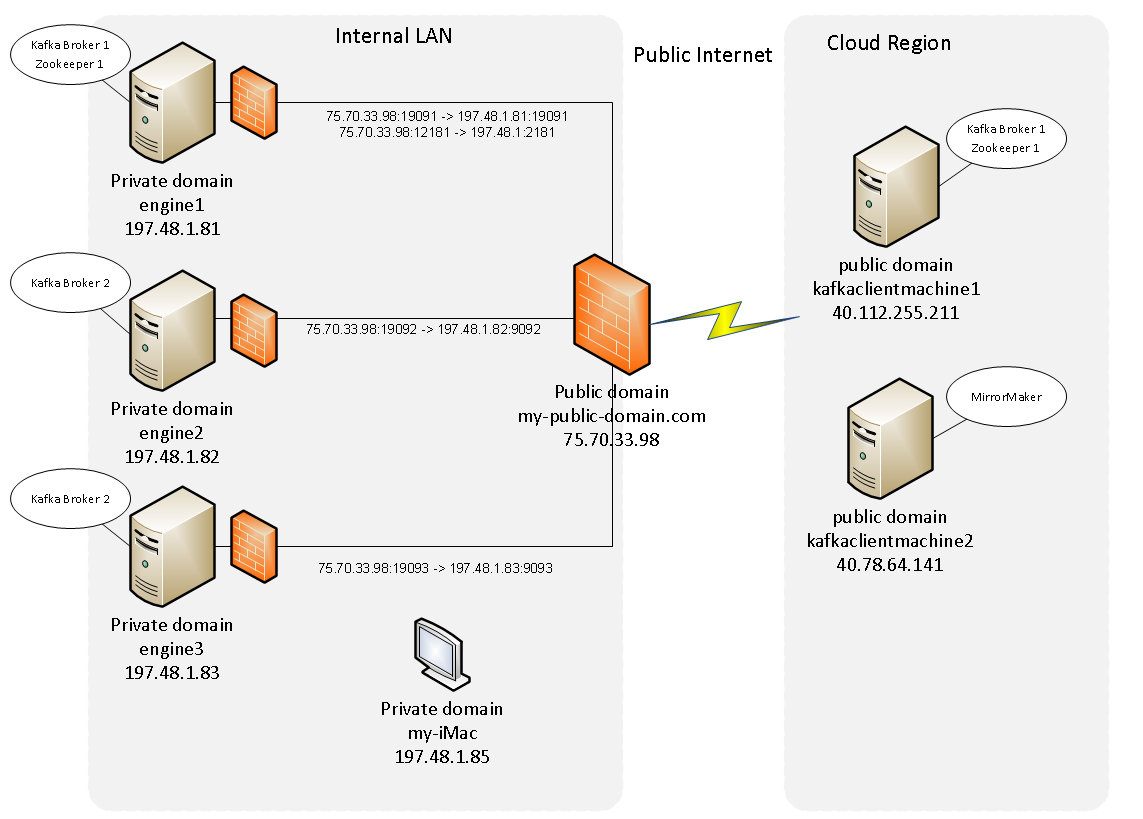
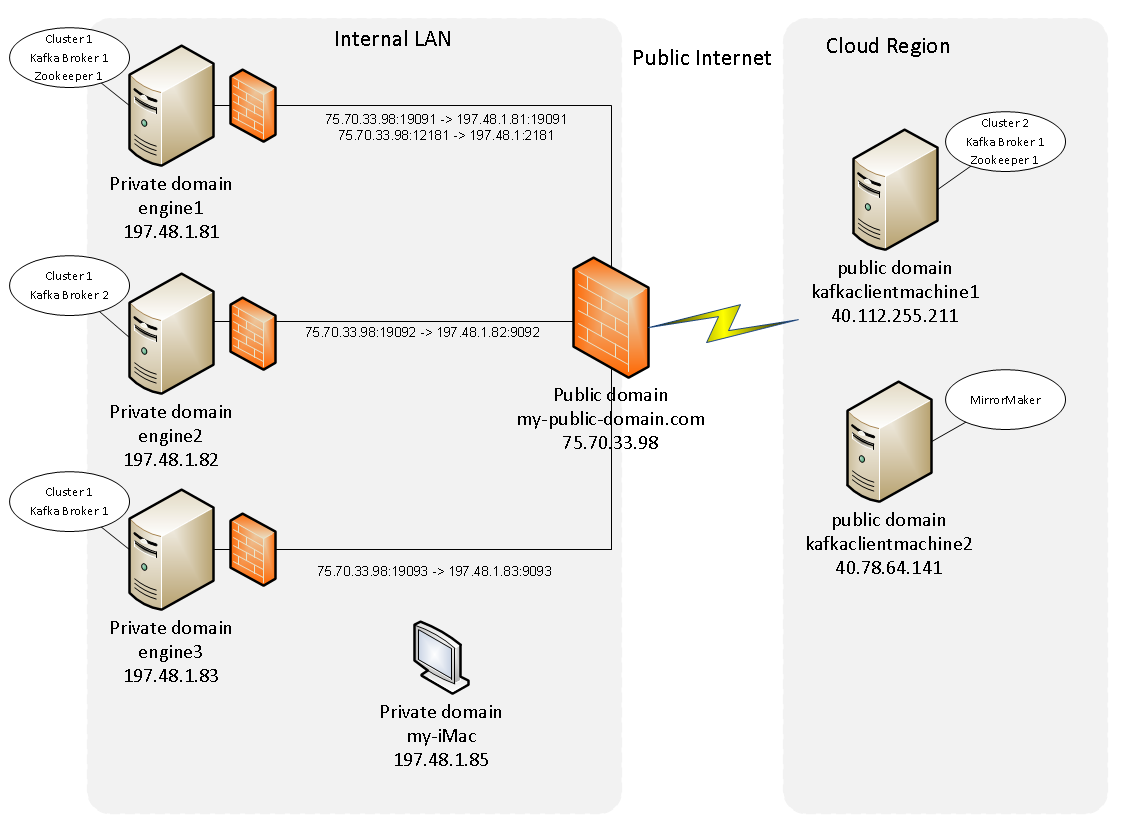
corrected diagram

diff --git a/README.md b/README.md
@@ -16,12 +16,12 @@ While this configuration is about setting up and configuration kafka on hardware
 
 Just a **warning** that you must be somewhat comfortable with Linux, Linux Networking, Kafka to complete this setup. It is not intended to be a guide for Windows and while it is all Linux, it is ready to use on RPM based Linux distros like Redhat and CentOS (not tested on Fedora). Modifications are required (and welcomed to be added to the project) if you intend on using other Linux distros like Ubuntu.  
 
-**Note:** Check Reference Section below for more information on Kafka, Kafka-MirroMaker, Vagrant, and Docker
+**Note:** Check Reference Section below for more information on Kafka, Kafka-MirrorMaker, Vagrant, and Docker
 
 ![Kafka_cluster_topology](kafka_cluster_topology.png)
 
 ### Internal Network Kafka Cluster Configuration
-So let's step through the proces of setting this all up and making it work correctly. While Kafka is fairly well documented on the [Apache Kafka website](https://kafka.apache.org), and on the major Hadoop distributions like [Cloudera](https://www.cloudera.com/documentation/kafka/latest/topics/kafka.html) and [Hortonworks](https://hortonworks.com/apache/kafka/) it can be a lot to take in all once and more importantly to set up consistently when you want to repeat the process over and over. The intent of this project is to provide a consistent set of scripts (bash) to configure, stand up and tear down Kafka. This can be quite helpful as first steps to setting up production Kafka clusters until things are working. Rather than use other DevOps provisioning tools like Ansible, or perhaps Chef or Puppet, the choice was made to do this using bash scripts as that is available on any linux machine and in many cases for what we are setting up there would be more work to make those tools do the job completely as we are doing more than just install things. **Currently all bash scripts assume an RPM linux distro is being used so if you want to use a Debian distro like Ubunto, you will have to modify appropriately**.
+So let's step through the proces of setting this all up and making it work correctly. While Kafka is fairly well documented on the [Apache Kafka website](https://kafka.apache.org), and on the major Hadoop distributions like [Cloudera](https://www.cloudera.com/documentation/kafka/latest/topics/kafka.html) and [Hortonworks](https://hortonworks.com/apache/kafka/) it can be a lot to take in all once and more importantly to set up consistently when you want to repeat the process over and over. The intent of this project is to provide a consistent set of scripts (bash) to configure, stand up and tear down Kafka. This can be quite helpful as first steps towards  setting up production Kafka clusters until things are working. Rather than use other DevOps provisioning tools like Ansible, or perhaps Chef or Puppet, the choice was made to do this using bash scripts as that is available on any linux machine and in many cases for what we are setting up there would be more work to make those tools do the job completely as we are doing more than just install things. **Currently all bash scripts assume an RPM linux distro is being used so if you want to use a Debian distro like Ubunto, you will have to modify appropriately**.
 
 
 #### engine1 (runs Kafka-Zookeeper and Kafka-Broker-1 processes)
